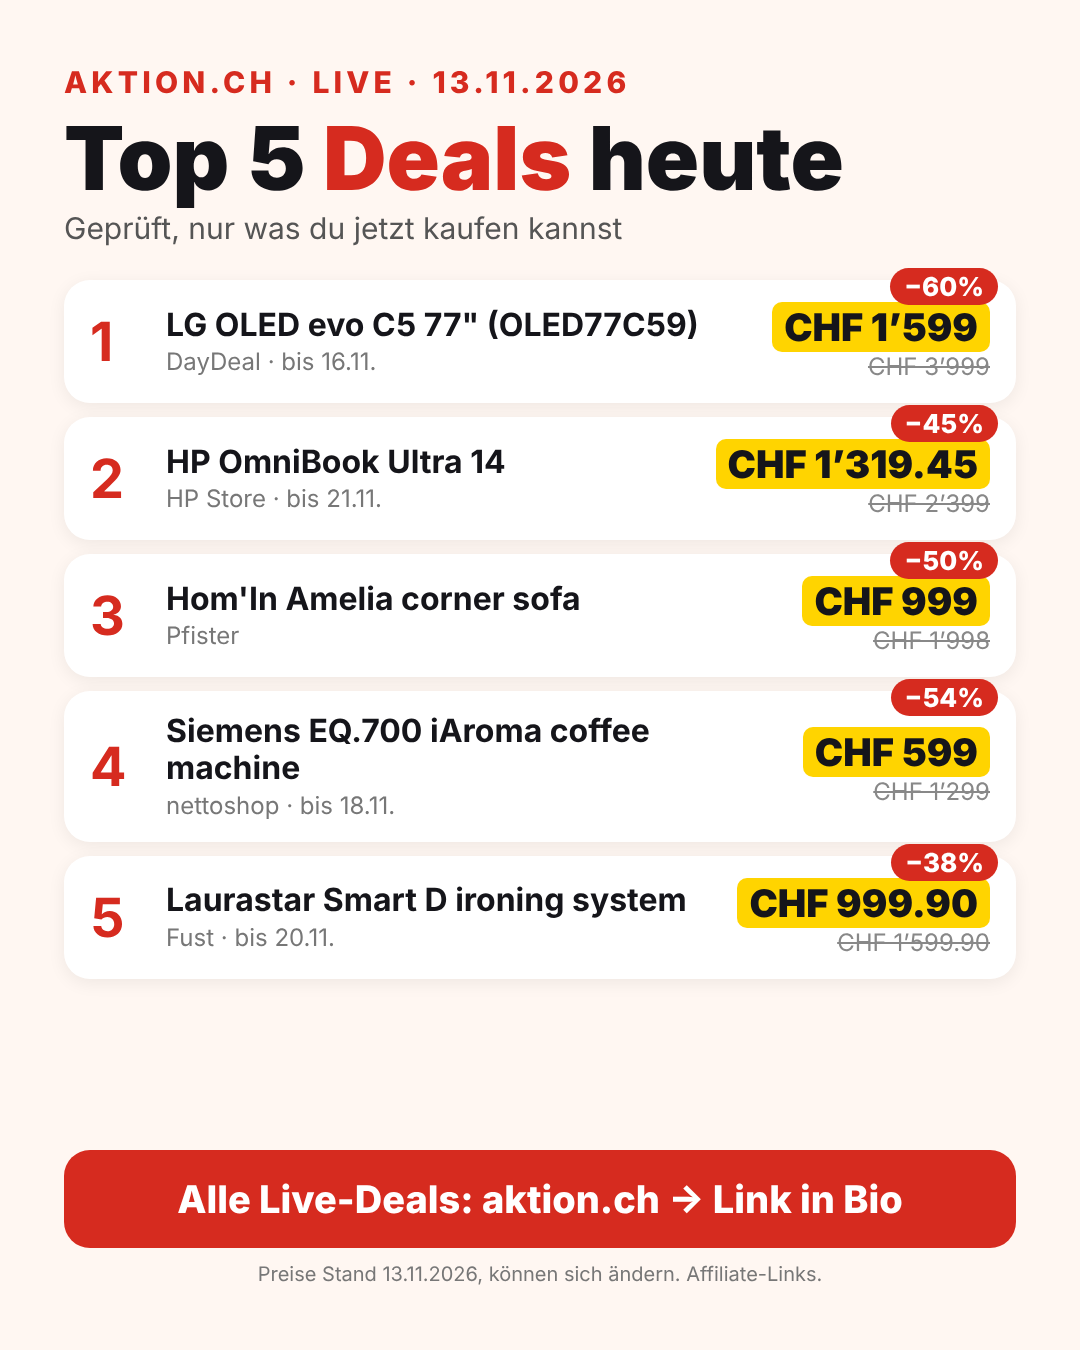
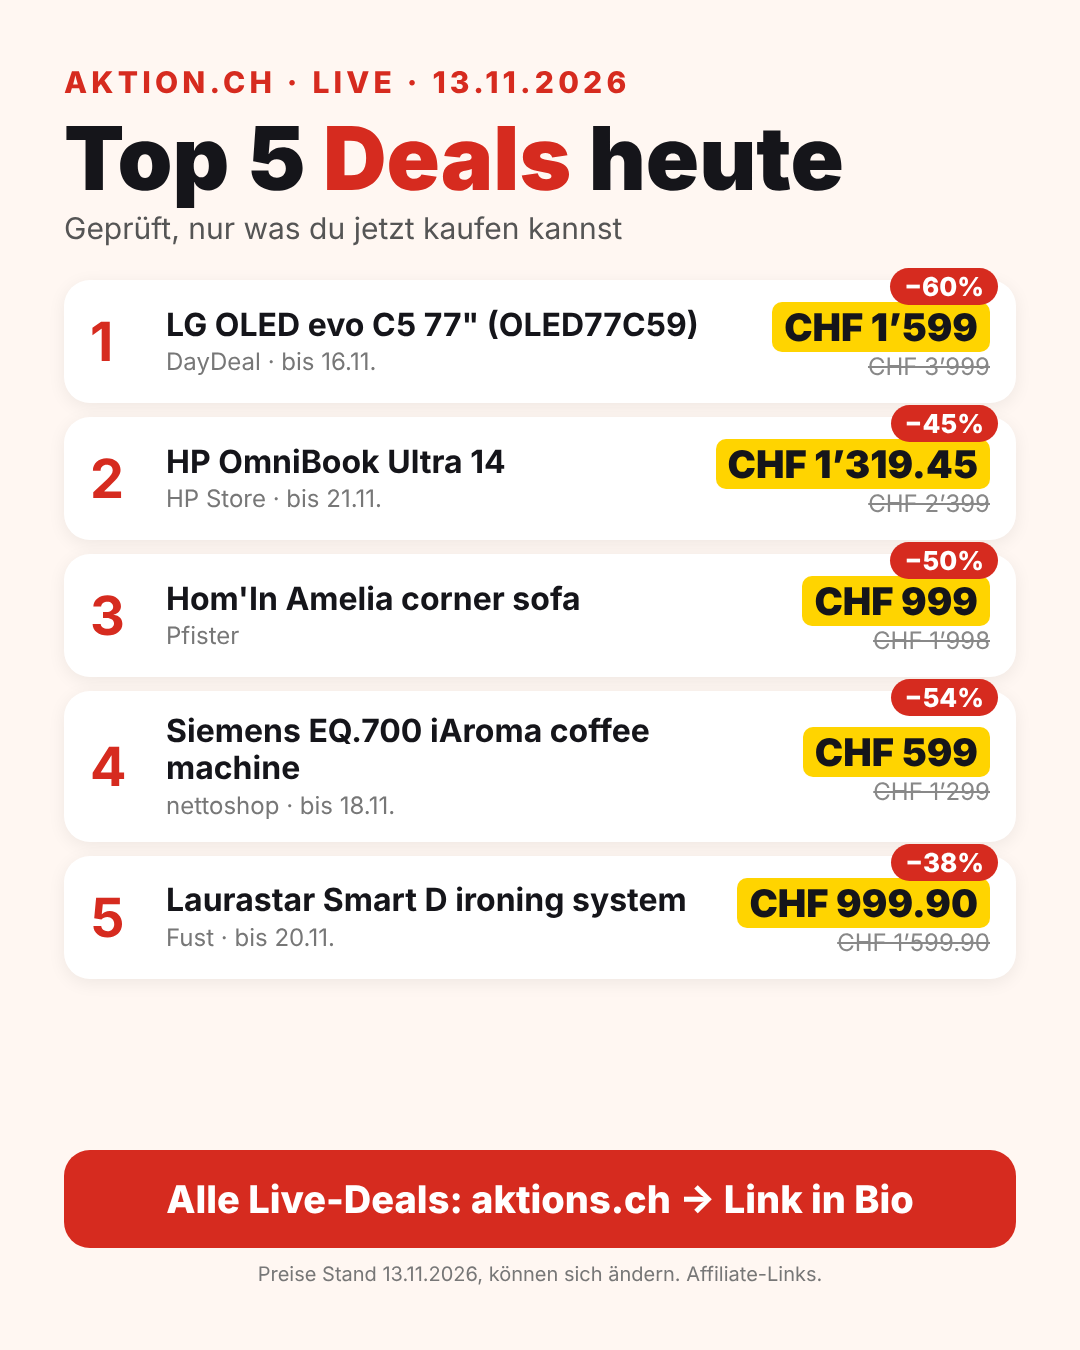
Use the live domain aktions.ch for canonical URLs, sitemap, robots and social posters
Claude-Session: https://claude.ai/code/session_01FGdRmnhB3yNtpuD7yhkPMX

Changed region(s): [[0.1528, 0.8711, 0.8556, 0.9022]]

diff --git a/vite.config.js b/vite.config.js
@@ -6,7 +6,7 @@ import { STRINGS } from "./src/i18n.js";
    - one static HTML file per landing page (src/config/pages.js) with its own title, description,
      canonical, hreflang, Open Graph, visible H1 + intro and JSON-LD (rendered without JavaScript)
    - robots.txt and sitemap.xml (with hreflang alternates)
-   Production URL: SITE_URL, else VERCEL_PROJECT_PRODUCTION_URL (set by Vercel). */
+   Production URL: SITE_URL, else https://aktions.ch. */
 
 const esc = s => String(s).replace(/&/g, "&amp;").replace(/</g, "&lt;").replace(/>/g, "&gt;").replace(/"/g, "&quot;");
 const ld = o => `<script type="application/ld+json">${JSON.stringify(o).replace(/</g, "\\u003c")}</script>`;
@@ -220,7 +220,7 @@ function seoPages() {
     name: "seo-pages",
     enforce: "post",
     async generateBundle(_, bundle) {
-      const host = process.env.SITE_URL || (process.env.VERCEL_PROJECT_PRODUCTION_URL ? `https://${process.env.VERCEL_PROJECT_PRODUCTION_URL}` : "https://aktion.ch");
+      const host = process.env.SITE_URL || "https://aktions.ch";
       const base = host.replace(/\/$/, "");
       const tplAsset = bundle["index.html"];
       const tpl = String(tplAsset.source);

diff --git a/src/main.js b/src/main.js
@@ -479,7 +479,7 @@ function toggleWatch(id) {
 function ics(e) {
   const d = e.date.replace(/-/g, ""), next = new Date(e.date + "T12:00:00Z"); next.setUTCDate(next.getUTCDate() + 1);
   const d2 = next.toISOString().slice(0, 10).replace(/-/g, "");
-  const body = ["BEGIN:VCALENDAR", "VERSION:2.0", "PRODID:-//Aktion.ch//Black Friday 2026//EN", "BEGIN:VEVENT", `UID:${d}-${slug(e.title)}@aktion.ch`,
+  const body = ["BEGIN:VCALENDAR", "VERSION:2.0", "PRODID:-//Aktions.ch//Black Friday 2026//EN", "BEGIN:VEVENT", `UID:${d}-${slug(e.title)}@aktions.ch`,
     `DTSTAMP:${new Date().toISOString().replace(/[-:]/g, "").slice(0, 15)}Z`, `DTSTART;VALUE=DATE:${d}`, `DTEND;VALUE=DATE:${d2}`,
     `SUMMARY:${e.title} (${e.region})`, `DESCRIPTION:${e.text.replace(/[,;]/g, m => "\\" + m)}`, "BEGIN:VALARM", "TRIGGER:-PT12H", "ACTION:DISPLAY", `DESCRIPTION:${e.title}`, "END:VALARM", "END:VEVENT", "END:VCALENDAR"].join("\r\n");
   return "data:text/calendar;charset=utf-8," + encodeURIComponent(body);

diff --git a/README.md b/README.md
@@ -44,7 +44,7 @@ vercel          # preview deployment
 vercel --prod   # production
 ```
 
-`robots.txt`, `sitemap.xml` (with hreflang alternates) and the landing pages' canonical URLs are generated at build time from `SITE_URL`, else `VERCEL_PROJECT_PRODUCTION_URL` (set by Vercel automatically), else `https://aktion.ch`. **Set `SITE_URL=https://your-domain.ch` in Vercel → Settings → Environment Variables** once the domain is final. Then add the live URL to Amazon PartnerNet and Awin as your promotional site.
+`robots.txt`, `sitemap.xml` (with hreflang alternates) and the landing pages' canonical URLs are generated at build time from `SITE_URL`, else `https://aktions.ch` (the live domain). Add the live URL to Amazon PartnerNet and Awin as your promotional site.
 
 `vercel.json` also sets long-term caching for hashed assets and basic security headers.
 
